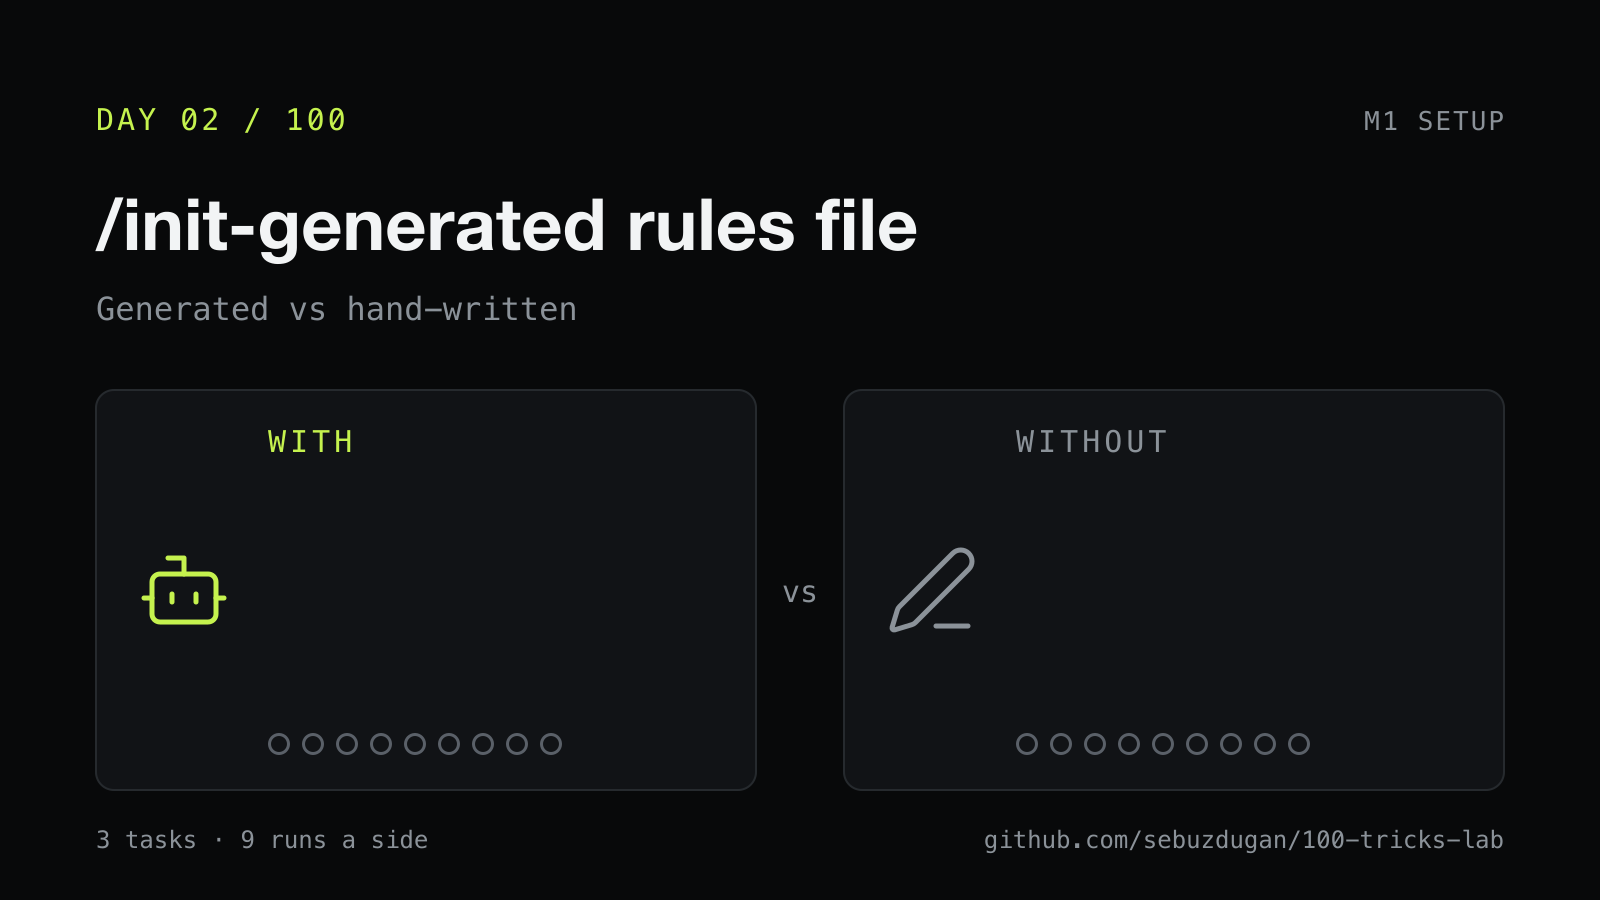
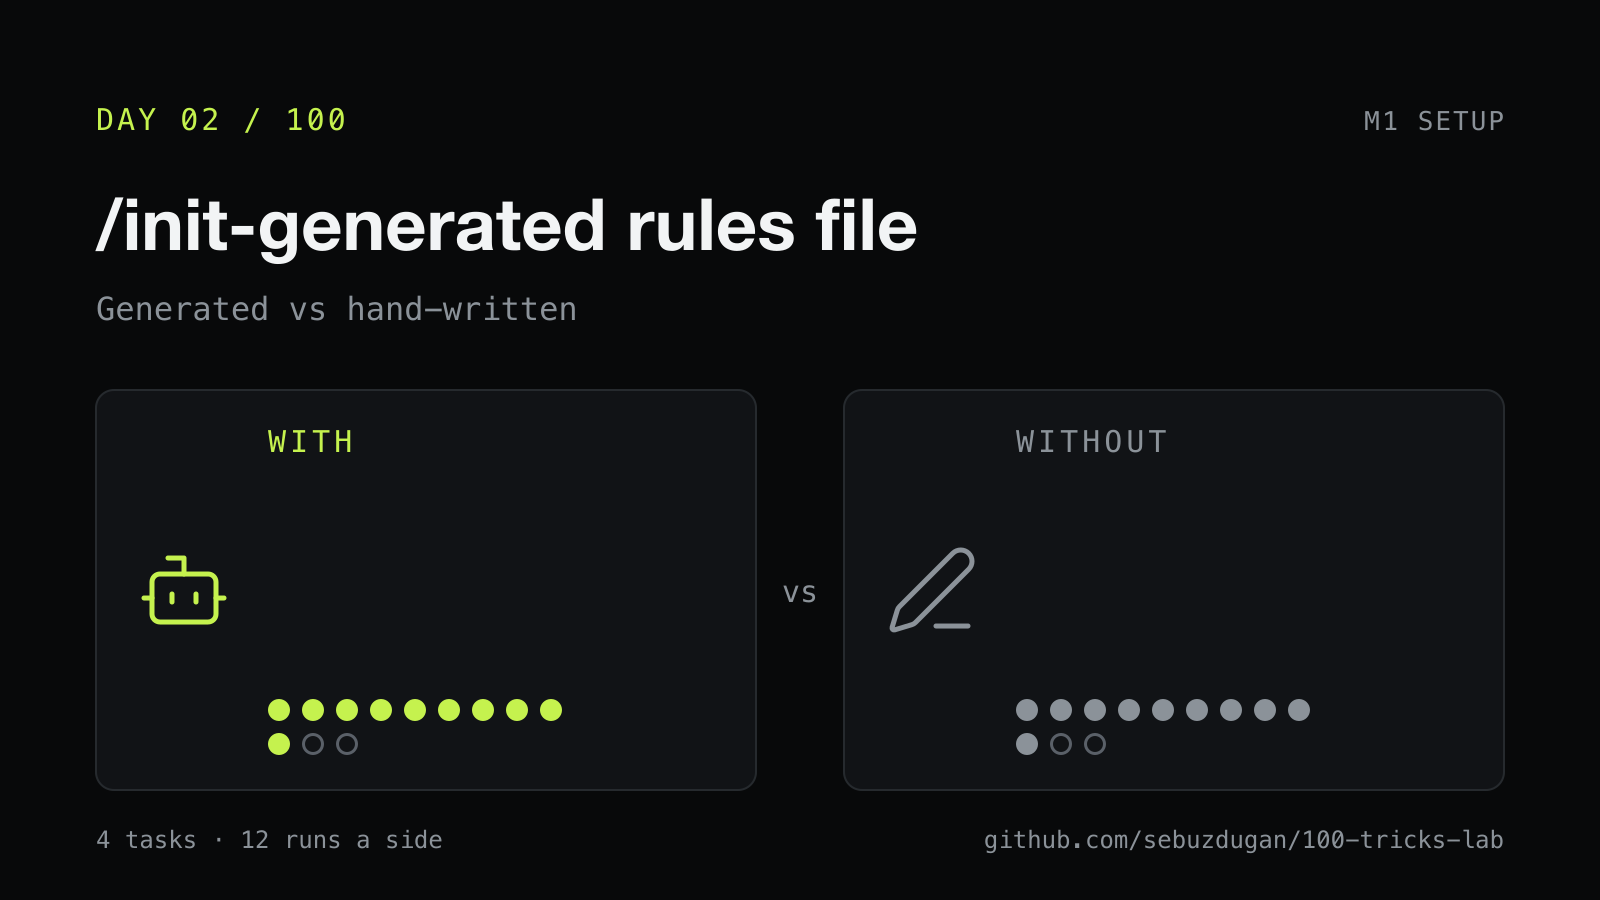
README for non-developers with diagrams and the Playbook so far; cards say 4 tasks; runner supports multi-step tricks

Changed region(s): [[0.625, 0.7778, 0.8438, 0.84], [0.1562, 0.7778, 0.375, 0.84], [0.1562, 0.9022, 0.2812, 0.9644]]

diff --git a/harness/run.py b/harness/run.py
@@ -139,7 +139,13 @@ def build_prompt(tdir: Path, side_cfg: dict, task: str) -> str:
     by_file = (side_cfg.get("prompt_file_by_task") or {}).get(task)
     body = (tdir / by_file).read_text() if by_file else (LAB / "tasks" / task / "prompt.md").read_text()
     prefix = (side_cfg.get("prompt_prefix") or "") + ((side_cfg.get("prompt_prefix_by_task") or {}).get(task) or "")
-    return prefix + body
+    return prefix + body + (side_cfg.get("prompt_suffix") or "")
+
+
+def task_text(tdir: Path, side_cfg: dict, task: str) -> str:
+    """The task's own prompt, without the side's prefix or suffix (for follow-up turn templates)."""
+    by_file = (side_cfg.get("prompt_file_by_task") or {}).get(task)
+    return (tdir / by_file).read_text() if by_file else (LAB / "tasks" / task / "prompt.md").read_text()
 
 
 def call_claude(cmd, work, timeout_s, env_extra=None):
@@ -214,14 +220,20 @@ def run_one(trick, tid, side, task, n, out_dir, dry):
         calls = [data]
         # Follow-up turns resume the same session (plan -> execute, review -> fix, /compact, retries).
         for turn in turns:
-            if timeout or data.get("is_error") or not data.get("session_id"):
+            fresh = bool(turn.get("fresh"))  # a new session in the same repo copy (spec -> fresh build), not --resume
+            if timeout or data.get("is_error") or (not fresh and not data.get("session_id")):
                 break
             left = timeout_s - (time.time() - t0)
             if left <= 0:
                 timeout = True
                 break
-            tp = turn.get("prompt") or (tdir / turn["prompt_file"]).read_text().replace("{task_prompt}", prompt)
-            tcmd = ["claude", "-p", tp, "--resume", data["session_id"]] + base_flags
+            tp = turn.get("prompt") or (tdir / turn["prompt_file"]).read_text()
+            tp = (tp.replace("{task_prompt}", prompt).replace("{task}", task_text(tdir, side_cfg, task))
+                    .replace("{prev_result}", str(data.get("result") or "").strip()))
+            tflags = list(base_flags)
+            if turn.get("permission_mode"):  # e.g. plan mode for the first call, acceptEdits to implement
+                i = tflags.index("--permission-mode"); tflags[i + 1] = turn["permission_mode"]
+            tcmd = ["claude", "-p", tp] + ([] if fresh else ["--resume", data["session_id"]]) + tflags
             if not trick.get("skills") and not turn.get("slash_commands"):
                 tcmd.append("--disable-slash-commands")
             if turn.get("model") or model:
@@ -238,6 +250,10 @@ def run_one(trick, tid, side, task, n, out_dir, dry):
             data["duration_ms"] = sum(float(c.get("duration_ms") or 0) for c in calls)
             data["num_turns"] = sum(int(c.get("num_turns") or 0) for c in calls)
             data["calls"] = len(calls)
+            # token counts summed over every step too (a plan step or a chat step is part of the cost of the trick)
+            data["usage"] = {k: sum(int((c.get("usage") or {}).get(k) or 0) for c in calls)
+                             for k in ("input_tokens", "output_tokens", "cache_read_input_tokens", "cache_creation_input_tokens")}
+            data["step_results"] = [str(c.get("result") or "")[:4000] for c in calls[:-1]]
         wall = (time.time() - t0) / 60
         text = str(data.get("result", "")).lower()
         if data.get("is_error") and (data.get("infra_crash") or any(m in text for m in INFRA_MARKERS) or data.get("terminal_reason") == "api_error"

diff --git a/README.md b/README.md
@@ -1,89 +1,92 @@
-# 100 Tricks Lab
+<h1 align="center">100 AI coding tricks, tested</h1>
 
-100 viral AI coding tricks, tested on the same real tasks with and without each trick. The rules are in
-[PROTOCOL.md](PROTOCOL.md).
+<p align="center">
+One popular AI coding tip a day, for 100 days.<br>
+Run on real code with the trick and without it, graded by tests the agent never sees.<br>
+<b>Every run, diff and log in this repo.</b>
+</p>
 
-## One-time setup
+<p align="center">
+  <img src="assets/cards/d06.png" alt="Day 6 card" width="480">
+</p>
 
-```bash
-harness/setup_base.sh                         # rebuilds base/frai from the public frai repo (skip if it exists)
-CLAUDE_CONFIG_DIR=~/.claude-lab claude        # opens a clean Claude Code; run /login once, then exit
-export LAB_CLAUDE_CONFIG_DIR=~/.claude-lab    # add to your shell profile
+## Why
+
+Most AI coding advice is somebody's good day. This is a measurement: same repo, same tasks, same model, one thing changed.
+
+Nothing is cherry-picked. Days where the trick did nothing get posted too.
+
+## How one day works
+
+```mermaid
+flowchart LR
+  A["📌 One popular trick"] --> B["🧪 4 real tasks<br>in a real repo"]
+  B --> C["▶ 12 runs WITH it"]
+  B --> D["▶ 12 runs WITHOUT it"]
+  C --> E["🔒 Hidden tests<br>grade every run"]
+  D --> E
+  E --> F{"Verdict<br>rule fixed in advance"}
+  F -->|passes more| G["✅ KEEP"]
+  F -->|passes fewer| H["❌ CUT"]
+  F -->|same| I["🟡 OPTIONAL"]
+  G --> J["📘 The Playbook"]
+  H --> J
+  I --> J
 ```
 
-The clean config folder keeps your own hooks, plugins, agents, commands and memory out of the runs. No API key is
-involved: `/login` uses your normal Claude subscription.
+The verdict rule is written down **before** the runs, in [PROTOCOL.md](PROTOCOL.md). Every change to it is dated in that file's log.
 
-## Every test day
+## The Playbook so far
 
-```bash
-python3 harness/run.py d01 --dry-run          # prepares the copies and confirms the graders fail on the baseline
-python3 harness/run.py d01                    # 18 runs, 3 at a time, then prints the verdict
-python3 harness/run.py d01 --summarize-only   # re-print the summary
+| Day | The trick | Result | Verdict |
+|---|---|---|---|
+| 1 | The viral 65-line rules file | 7/12 vs 7/12 | 🟡 optional |
+| 2 | Let `/init` write the rules file | 10/12 vs 10/12 | 🟡 optional |
+| 3 | Short rules file (49 lines) vs long (582) | 8/12 vs 8/12, short ran faster | ✅ keep |
+| 4 | The SuperClaude framework | 7/12 vs 9/12 | ❌ cut |
+| 5 | One rules file per package | 8/12 vs 8/12 | 🟡 optional |
+| 6 | An ARCHITECTURE.md map, read first | 9/12 vs 7/12 | ✅ keep |
+
+A new row lands here the day its post goes live.
+
+## The road
+
+```mermaid
+flowchart TB
+  M1["▶ 1-10 · Setup<br>your rules file"] --> M2["11-20 · Planning"] --> M3["21-30 · Prompting"] --> M4["31-40 · Context"] --> M5["41-50 · Verification"]
+  M5 --> M6["51-60 · Debugging"] --> M7["61-70 · Skills and MCP"] --> M8["71-80 · Safety"] --> M9["81-90 · Cost and models"] --> M10["91-100 · Long runs"]
+  style M1 fill:#A3E635,stroke:#A3E635,color:#0B0B0D
 ```
 
-Run it from a normal terminal, not from inside another Claude Code session.
+## What's in here
 
-After the runs, fill the day's Short script with the real numbers (scripts are private until posted):
-
-```bash
-python3 harness/fill_script.py d01            # picks the takeaway from the verdict, writes private/out/d01/
-python3 harness/fill_script.py d01 --preview works   # rehearse before results exist
-```
-
-Each real fill also records the day's rule in the Playbook: kept (works), cut (hurts) or optional (no difference).
-The tally and module recaps in the scripts and X drafts come only from those recorded results:
-
-```bash
-python3 harness/playbook.py                   # the Playbook so far, grouped by module
-python3 harness/playbook.py thread M2         # a module's X thread: opener, one line per day, recap
-```
-
-When the verdict is in, publish the raw runs before the post goes out (the post links to them):
-
-```bash
-harness/publish_day.sh d01                    # commits tricks/d01 and runs/d01, pushes, prints the link
-```
-
-Outputs land in `runs/d01/`: `runs.csv`, `raw/`, `summary.json` and `result_fragment.json`, which feeds the Notion
-scorecard row and the `test-result-crosspost` skill.
-
-## Adding a trick
-
-Create `tricks/dNN/trick.json` (copy `tricks/d01/trick.json`) and put the files that make up the trick in
-`tricks/dNN/with/` (or `without/`). Files in an overlay folder are copied into the repo copy before the agent starts.
-Use `prompt_prefix`, `model`, `effort` or `extra_args` on a side when the trick is a prompt, model or flag rather
-than a file. More side options:
-
-| Field | Use |
+| Folder | What you'll find |
 |---|---|
-| `prompt_prefix_by_task` | `{task: text}` added before one task's prompt |
-| `prompt_file_by_task` | `{task: path}` replaces that task's prompt with a file in the trick folder |
-| `turns` | follow-up calls in the same session: `[{"prompt": "...", "model": "sonnet"}]` (plan then execute, review then fix) |
-| `allowed_tools_extra` | extra tools, e.g. `["Agent"]` or `["WebFetch"]` |
-| `permission_mode` | defaults to `acceptEdits` |
-| `env` | extra environment, e.g. a local model: `{"ANTHROPIC_BASE_URL": "http://localhost:11434", "ANTHROPIC_AUTH_TOKEN": "ollama"}` |
+| `runs/dNN/` | every run of that day: the verdict, each diff, each step the agent took |
+| `tricks/dNN/` | the exact files that made up the trick |
+| `tasks/` | the four tasks, and the hidden tests that grade them |
+| `plan/` | all 100 days: the trick, the source, what to watch for |
+| `PROTOCOL.md` | the rules, including the verdict rule and every change to it |
 
-Trick-level: `tasks`, `runs`, `timeout_min`, `skills` (enables slash commands and skills), `extra_check` (script run on
-each finished repo copy, its last output line lands in the `extra` column), `fetch` (third-party files downloaded at a
-pinned URL and SHA-256 instead of being committed).
+**The setup:** an AI coding agent (Claude Code on Haiku 4.5) working headless in a copy of a real open-source repo, four tasks, three runs per task per side. A budget model on purpose: stronger models passed almost everything, so no trick could show a difference.
 
-`plan/briefs.json` holds the reviewed brief for every day: exact setup, caveats, clip plan, sources. Day cards live in
-`assets/cards/` (`python3 harness/render_cards.py` re-renders them; pips fill in once `runs/dNN/summary.json` exists).
-Icons: [Lucide](https://lucide.dev), ISC licence.
+<details>
+<summary><b>Run it yourself</b></summary>
 
-## Layout
-
+```bash
+harness/setup_base.sh                         # rebuild the baseline repo
+export LAB_CLAUDE_CONFIG_DIR=~/.claude-lab    # a clean agent config, so your own setup stays out of the runs
+python3 harness/run.py d01 --dry-run          # prepare the copies, confirm the graders fail on the baseline
+python3 harness/run.py d01                    # the day's runs, then the verdict
+harness/publish_day.sh d01                    # commit and push that day's raw runs
 ```
-PROTOCOL.md          the rules, including the pre-registered verdict rule
-harness/run.py       runner, grader and summariser
-harness/setup_base.sh
-tasks/<task>/        prompt.md, accept.sh, hidden/ acceptance tests
-reference/           known-good fixes used to validate the graders (never shown to agents)
-tricks/dNN/          one folder per day
-runs/dNN/            results
-base/frai            the baseline repo (rebuilt by setup_base.sh, not committed)
-plan/days.json       the 100-day plan: trick, test, run mode, runs, source
-plan/briefs.json     reviewed brief per day
-assets/cards/        day cards (PNG + SVG)
-```
+
+A day is defined by `tricks/dNN/trick.json`: the tasks, the model, and what each side gets (files copied into the repo copy, a prompt prefix, a different model, extra tools, an extra checker). Copy `tricks/d01/trick.json` to start one.
+
+</details>
+
+## Follow along
+
+The daily results go out as a 60-second video and a post with the numbers: [YouTube](https://sebuzdugan.com/l/yt) · [X](https://sebuzdugan.com/l/x) · [Medium](https://medium.com/@sebuzdugan)
+
+Day cards use [Lucide](https://lucide.dev) icons (ISC).
